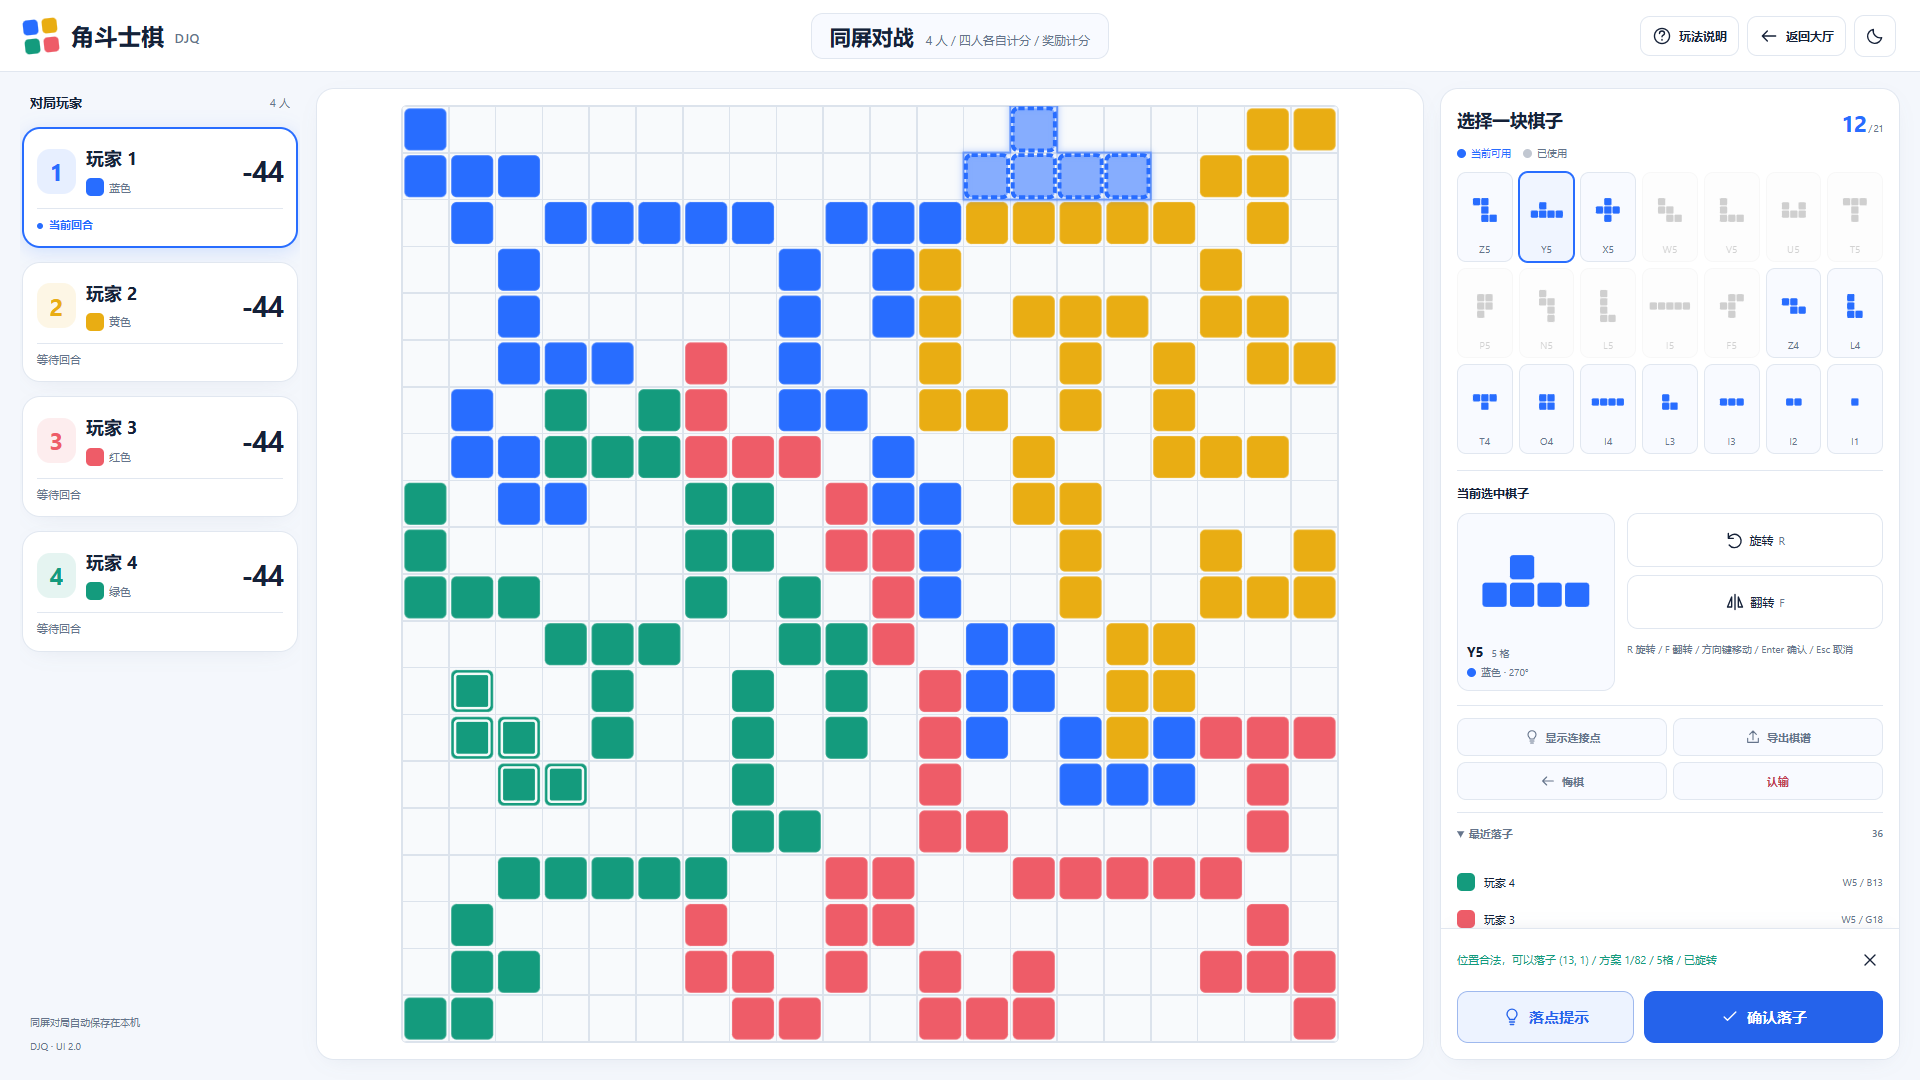
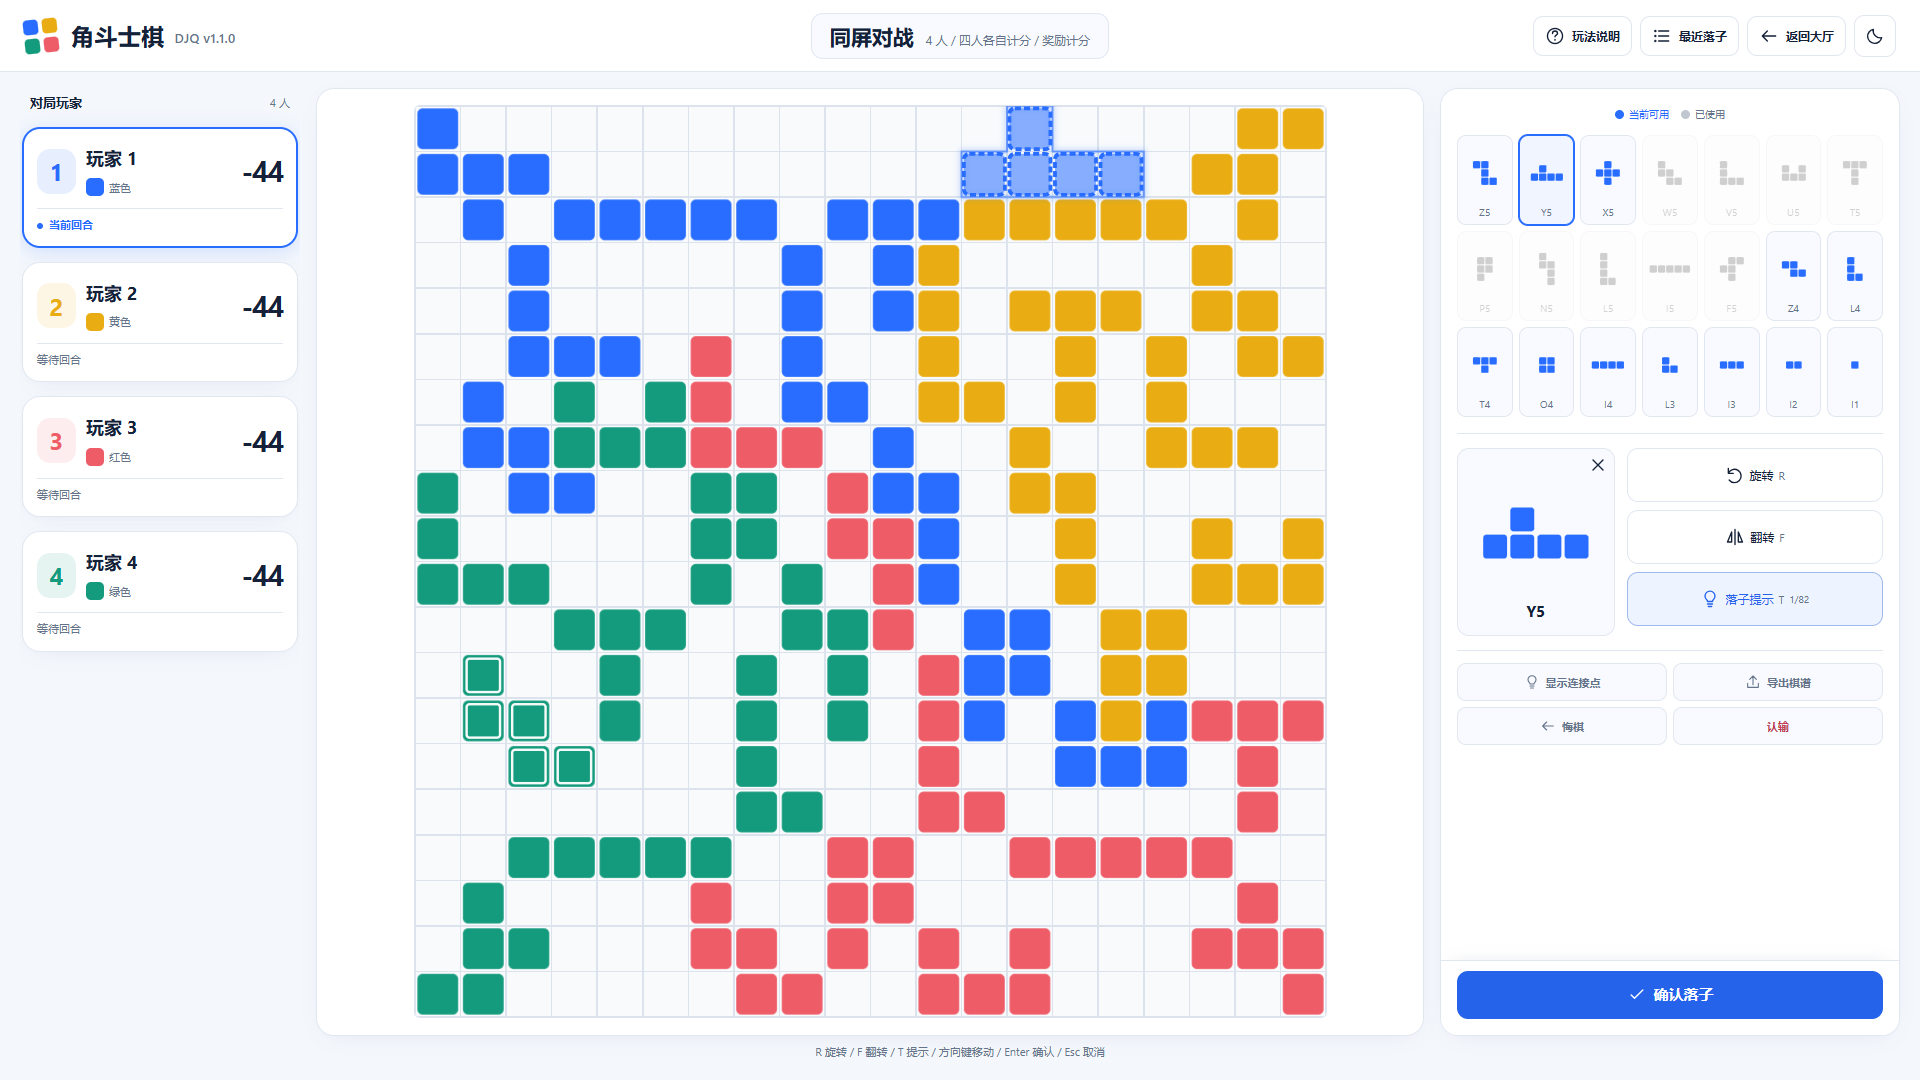
feat: streamline match controls and fix keyboard confirmation

diff --git a/public/game.css b/public/game.css
@@ -326,3 +326,53 @@ body[data-screen="game"] #app {
   .game-shell-v2 .player-state {width:100%}
   .game-shell-v2 .piece-tray {grid-template-columns:repeat(5,minmax(0,1fr))}
 }
+
+/* Compact controls: model-only selection, stacked actions and one feedback button. */
+.brand-label {white-space:nowrap}
+.brand-label small {font:inherit; color:var(--muted)}
+.match-header .brand-label {display:inline; white-space:nowrap}
+.game-shell-v2 .tray-legend {justify-content:center; margin:0 0 14px}
+.selection-preview {position:relative; min-width:0}
+.selection-preview .selected-piece {height:100%; display:flex; flex-direction:column; justify-content:center; padding:24px 10px 12px}
+.selection-preview #clear-selection {position:absolute; top:4px; right:4px; width:26px; height:26px; min-height:26px; border:0; background:transparent; padding:3px}
+.selected-piece-meta {text-align:center; min-height:24px; margin-top:6px}
+.selected-piece-meta strong {font-size:16px; line-height:1.5}
+.game-shell-v2 .selection-tools {padding-top:14px}
+.game-shell-v2 .transform-tools .hint-button {color:var(--accent); border-color:color-mix(in srgb,var(--accent) 35%,var(--line)); background:var(--accent-soft)}
+#hint-sequence {font-size:10px; color:var(--muted); font-variant-numeric:tabular-nums}
+.game-shell-v2 .commit-actions {grid-template-columns:minmax(0,1fr)}
+.game-shell-v2 #confirm-move {width:100%; min-width:0; min-height:48px; height:auto}
+.game-shell-v2 #confirm-move #preview-status {min-width:0; white-space:normal; overflow-wrap:anywhere; line-height:1.5}
+.game-shell-v2 #confirm-move:disabled {opacity:1; color:var(--muted); border-color:var(--line); background:var(--surface-soft)}
+.game-shell-v2 #confirm-move:disabled[data-feedback="invalid"] {color:var(--danger); background:color-mix(in srgb,var(--danger) 6%,var(--surface)); border-color:color-mix(in srgb,var(--danger) 30%,var(--line))}
+.game-shell-v2 .dock-confirm>span {min-width:0; white-space:normal; overflow-wrap:anywhere; line-height:1.25}
+.game-shell-v2:has(> #game-shortcuts) {display:grid; grid-template-rows:minmax(0,1fr) auto; gap:8px}
+.game-shell-v2 > #game-shortcuts {display:block; grid-column:1/-1; margin:0; padding:0 3px; text-align:center; font-size:11px; line-height:1.5; color:var(--muted)}
+#modal-log .move-log {border:0; padding:0; margin:0}
+#modal-log .move-log h3 {display:none}
+#modal-log .move-log ol {gap:0; margin:0}
+#modal-log .move-log li {font-size:13px; padding:12px 0; border-bottom:1px solid var(--line)}
+#modal-log .move-log li>span:last-child {display:flex; flex-wrap:wrap; align-items:center; gap:6px 16px}
+#modal-log .move-log small {font-size:11px; white-space:normal}
+@media (max-width:760px) {
+  .site-header .brand-label {display:inline; font-size:9px; letter-spacing:normal}
+  .game-shell-v2 > #game-shortcuts {font-size:10px; line-height:1.6}
+}
+@media (max-width:760px) and (min-height:561px), (max-width:599px) {
+  .game-shell-v2:has(> #game-shortcuts) {display:block}
+  .game-shell-v2 > #game-shortcuts {margin-top:14px}
+}
+@media (min-width:600px) and (max-height:560px) and (orientation:landscape) {
+  .match-header .brand-label {display:inline; font-size:9px; letter-spacing:normal}
+  .game-shell-v2 > #game-shortcuts {font-size:9px}
+}
+@media (max-width:380px) {
+  .match-header {padding:8px 10px; column-gap:8px}
+  .match-header .brand strong {font-size:16px}
+}
+@media (min-width:931px) and (max-width:1200px) and (min-height:561px) {
+  .match-header {grid-template-columns:220px minmax(0,1fr) auto}
+}
+@media (min-width:761px) and (max-width:930px) and (min-height:561px) {
+  .match-header {grid-template-columns:210px minmax(0,1fr) auto}
+}

diff --git a/public/index.html b/public/index.html
@@ -5,7 +5,8 @@
   <meta name="viewport" content="width=device-width, initial-scale=1, viewport-fit=cover">
   <meta name="theme-color" content="#f5f5f2">
   <meta name="description" content="DJQ: a small, thoughtful board game for 2-4 players. Play locally or invite friends online.">
-  <title>DJQ - &#35282;&#26007;&#22763;&#26827;</title>
+  <meta name="application-version" content="1.1.0">
+  <title>角斗士棋 v1.1.0</title>
   <link rel="icon" href="/favicon.svg" type="image/svg+xml">
   <link rel="stylesheet" href="/style.css">
   <link rel="stylesheet" href="/game.css">

diff --git a/docs/UI_V2.md b/docs/UI_V2.md
@@ -10,13 +10,15 @@
 
 1. 将原来的顶部玩家卡片与两栏布局改成左侧玩家、中间棋盘、右侧选子/操作三栏；顶部集中显示真实玩法、人数、计分方式和联机房间信息。
 2. 左侧卡片从规则引擎计算并显示真实得分，保留颜色、当前回合、思考、离线、认输、结束、双色合计、公共绿和组队信息；按后续反馈移除身份副标识与剩余格数文案。
-3. 右侧保留21种真实 SVG 棋形。新增从同一选择状态生成的放大预览，实时同步形状、面积、颜色、旋转和镜像；单格形状也有放大显示。
-4. 主按钮始终保留确认落子；落点提示独立，标注计算状态，网络等待时禁用确认。辅助操作和记录在右栏内滚动/折叠，避免挤压棋盘。
+3. 右侧保留21种真实 SVG 棋形。放大预览与落子姿态使用同一状态，型号居中显示在棋形下方，省去数量、颜色和角度等副文案。
+4. 旋转、翻转、落子提示纵向排列，提示支持T键。确认按钮合并合法性反馈，合法时显示确认、非法时显示原因，网络等待时禁用。辅助操作在右栏，日志由顶部按钮打开弹窗。
 5. 棋盘容器由 CSS 分配可用空间，再由 ResizeObserver 取实际宽高的较小值设置正方形 SVG；600×600 viewBox 和逻辑坐标不变。
 6. 短横屏（宽≥600、视口高≤560且横向）使用两栏状态/棋盘与操作抽屉，底部固定关键操作。抽屉开启时背景 inert、焦点限制在抽屉内，Esc 返回选子按钮；选择或取得建议后可直接回棋盘。手机竖屏保留自然滚动与固定操作栏。
 7. 页面重绘恢复已有控制焦点；同局面SSE更新继续等到拖动结束再重绘。窗口旋转关闭旧抽屉，重新适配棋盘。
 
 2026-10-17 界面精简：移除棋盘四角的标题、行动玩家、落子数和操作提示，以及颜色块字母、身份副标识、剩余格数和棋形说明副标题。联机计时移至顶部；待确认棋子增加同色外轮廓呼吸光效（不照亮内部接缝），确认后消失，减少动态效果偏好下使用静态光效。右侧旋转/翻转改为上下排列。
+
+后续操作区精简：移除选子标题和库存比例；可用/已使用图例居中，放大棋子仅保留正下方居中的型号。快捷键说明置于页面底部；日志按钮位于玩法说明右侧，弹窗展示完整行动历史并接收联机更新。选择、变换、取得建议后恢复棋盘焦点，修复鼠标选子后Enter只会再次激活棋子按钮的问题；输入框和弹窗保留正常键盘行为，重复Enter不重复提交。品牌和网页标题统一使用项目实际版本v1.1.0，版本元数据由检查脚本与package.json核对，删除保存文案与页脚版本。
 
 ## 文件清单
 
@@ -31,6 +33,8 @@
 | `package.json` | 将新增布局套件纳入 `test:browser` |
 | `tests/browser_layout.mjs`（新增） | 尺寸/模式/预览/键盘/导出/抽屉/旋转/SSE拖动回归与截图 |
 | `tests/game-ui.test.mjs`（新增） | 外轮廓不包含内部接缝的回归 |
+| `tests/browser_controls.mjs`（新增） | Enter/T、合并确认、版本、日志弹窗/实时更新和重复提交保护 |
+| `scripts/check.mjs` | 核对网页版本元数据、标题与package.json一致 |
 | `docs/UI_V2_VERIFICATION.json`（新增） | 本轮实际验证记录 |
 | `docs/screenshots/ui-v2/`（新增） | 浅色、深色、手机横屏的真实浏览器截图 |
 | `README.md`、`docs/TESTING.md`、本文 | 功能入口、验证方法与交付说明 |
@@ -60,6 +64,10 @@
 手机横屏操作抽屉：
 
 ![手机横屏抽屉](screenshots/ui-v2/phone-landscape-drawer.png)
+
+顶部日志按钮打开的弹窗：
+
+![日志弹窗](screenshots/ui-v2/history-dialog.png)
 
 ## 验证边界
 

diff --git a/docs/TESTING.md b/docs/TESTING.md
@@ -16,9 +16,11 @@ $env:CHROMIUM_PATH = 'C:/Program Files (x86)/Microsoft/Edge/Application/msedge.e
 npm run test:browser
 ```
 
-`tests/browser_gameplay.mjs`, `tests/browser_recovery.mjs`, and `tests/browser_layout.mjs` start real local servers on ephemeral ports, with actual CSP, native storage, HTTP/SSE and module Workers. Current acceptance uses no bridge or emulated storage. Optional browser packages are not production dependencies.
+`tests/browser_gameplay.mjs`, `tests/browser_recovery.mjs`, `tests/browser_layout.mjs`, and `tests/browser_controls.mjs` start real local servers on ephemeral ports, with actual CSP, native storage, HTTP/SSE and module Workers. Current acceptance uses no bridge or emulated storage. Optional browser packages are not production dependencies.
 
 The UI 2.0 layout suite checks nine real viewport sizes (1920×1080 through 360×800), full desktop three-column fit, square SVG bounds, selected-shape synchronization, actual export downloads, all local modes, invalid-move confirmation, keyboard focus, narrow landscape drawer/inert/focus wrapping, orientation changes, read-only replay and captured drag surviving an SSE presence update. See [UI 2.0 delivery](UI_V2.md) and [its verification report](UI_V2_VERIFICATION.json). Screenshots in `docs/screenshots/ui-v2/` are committed review artifacts; other screenshots/logs remain ignored under artifacts/.
+
+The controls suite reproduces mouse-selection→Enter confirmation, T-key suggestions, disabled validation messages inside the confirm button, real-time history dialogs, package-matching title/version, and an intercepted real HTTP move held pending while repeated Enter is rejected. Native checks also enforce version metadata and title consistency with package.json.
 
 Coverage: hover/held drag/tap rotation; multi-square non-origin grabbing; native Chromium CDP touch and cancellation rollback; bounds/flip/arrows; manual four-color opening; focused Enter; dark theme; hint cycling; local full bot game/undo/reload/rematch; 3/4 human online and neutral green; team game with 2 humans/2 bots; team resignation/rematch; safe/invalid V1 replay import; native recovery, browser restart, multi-tab Web Locks, and temporary failures. Screenshots: ignored `artifacts/browser/`.
 
